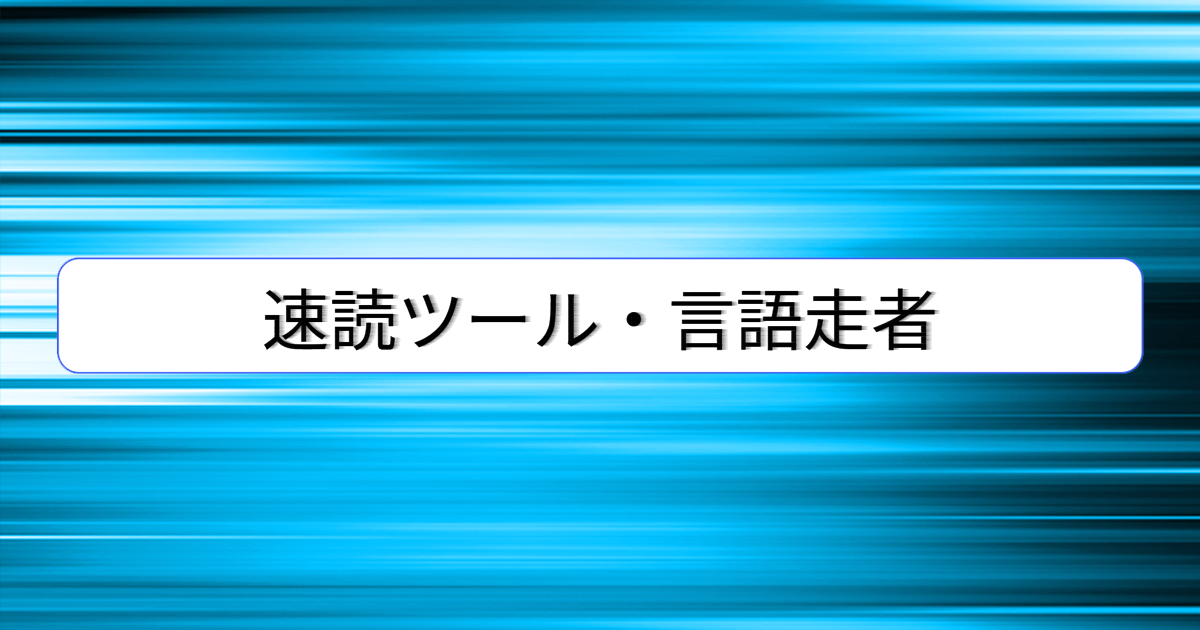
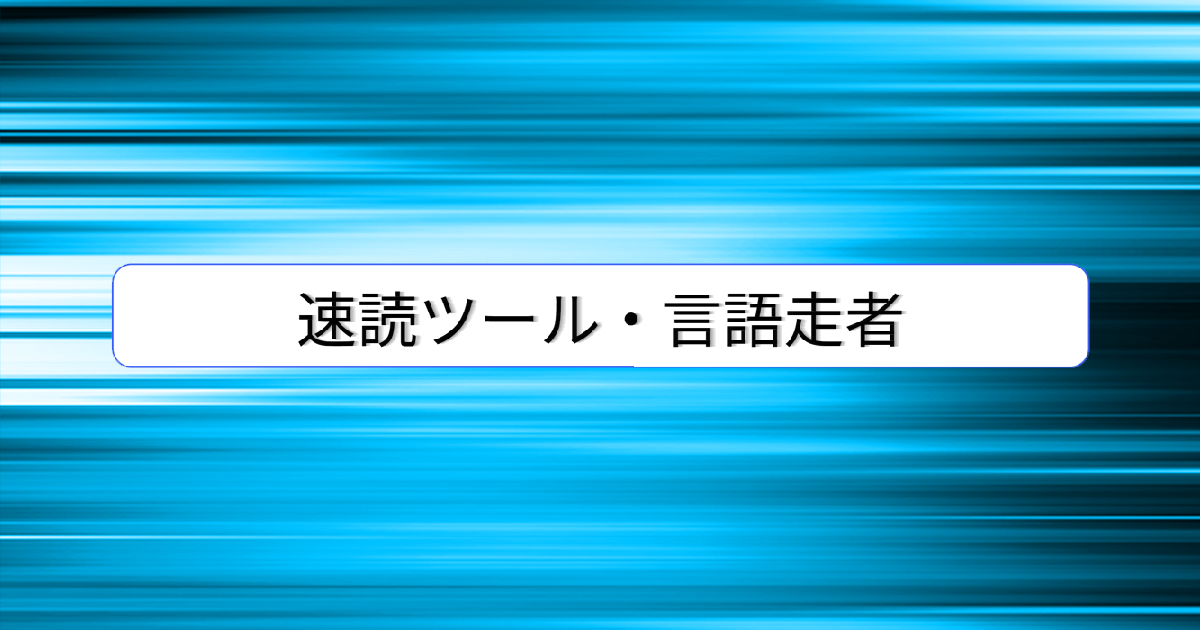
OGP updated

Changed region(s): [[0.0308, 0.3921, 0.9558, 0.6032]]

diff --git a/index.html b/index.html
@@ -10,11 +10,13 @@
     <meta property="og:type" content="website" />
     <meta property="og:title" content="言語走者" />
     <meta property="og:url" content="https://phrasecutter.herokuapp.com/" />
-    <meta property="og:image" content="https://phrasecutter.herokuapp.com/pic/ShareCard.png">
+    <meta property="og:image" content="https://phrasecutter.herokuapp.com/pic/ShareCard.png"/>
     <meta property="og:site_name" content="言語走者 by ogadra" />
     <meta property="og:description" content="文章を早く読むためのサイトです。" />
-    <meta name="twitter:image" content="https://phrasecutter.herokuapp.com/pic/ShareCard.png">
+    <meta name="twitter:image" content="https://phrasecutter.herokuapp.com/pic/ShareCard.png"/>
+    <meta name="twitter:card" content="summary_large_image"/>
     <meta name="twitter:site" content="@2020year"/>
+    <meta name="twitter:creator" content="2020year"/>
 </head>
 <body>
   <header><a href="https://twitter.com/2020year">言語走者 by ogadra</a></header>
